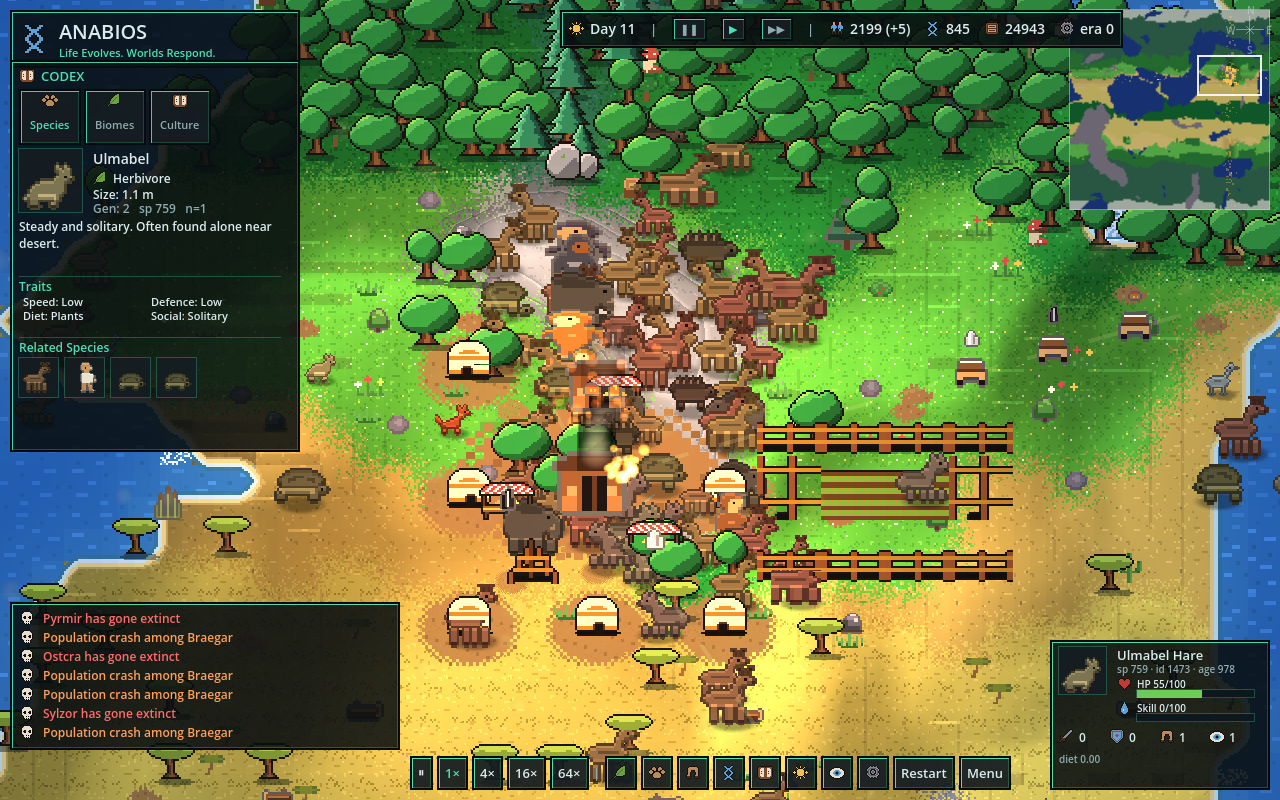
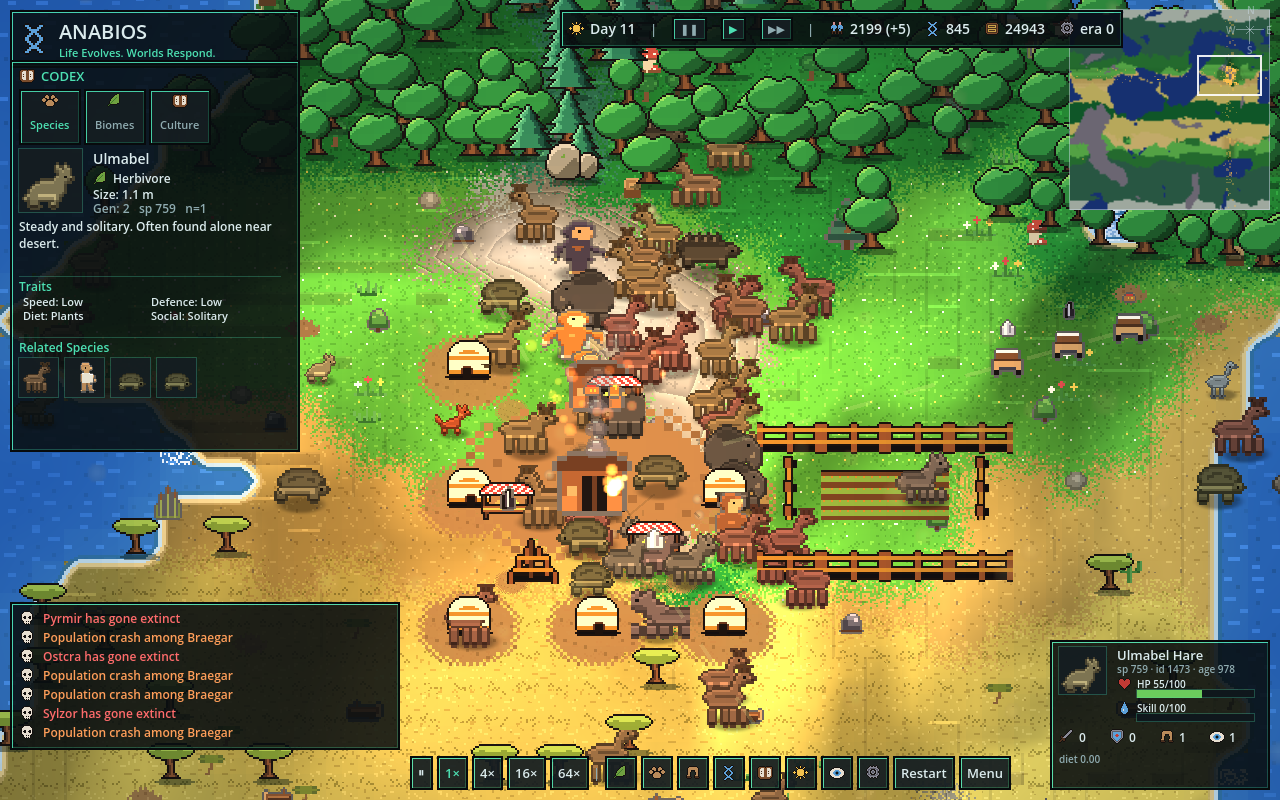
viewer: pixel-puff smoke, earth-coloured trade lanes up close, warm stone
The settlement plume scatters a hard-edged three-lobed puff sprite
(drawn unfiltered) instead of a radial disc that blurred into a grey
fog over the hearth at 4x. From 2x in, trade lanes are drawn as the
trodden earth they are worn into (the footstep-track brown, faint, no
pulse) rather than genome-hued tracers; at far zoom they are unchanged.
The crowd cap draws one figure per 12 world units. Rock tiles, contour
ledges, boulders and crags move from the canon blue-grey to a warm
olive stone: a small outcrop beside the settlement camp read as a
concrete plaza with cracks.

Claude-Session: https://claude.ai/code/session_019kbTtZKC2VJBPY6SALU64h

diff --git a/gallery/README.md b/gallery/README.md
@@ -42,7 +42,7 @@ pins an agent in the unit card.
 
 | File | Scenario / tick / zoom | What you're seeing |
 |---|---|---|
-| scale-settlement-t891-village-4x.png | `settlement` t891 4× (default camera, `ANABIOS_INSPECT=1`) | A camp on packed-earth yards with paths to the hearth, tents spaced a hut-width apart, the crowd capped to one figure per 10 units, a market square with awning stalls beside it, the unit card. |
+| scale-settlement-t891-village-4x.png | `settlement` t891 4× (default camera, `ANABIOS_INSPECT=1`) | A camp on packed-earth yards with paths to the hearth, tents spaced a hut-width apart, the crowd capped to one figure per 12 units, a market square with awning stalls beside it, pixel-puff hearth smoke, the outcrop east of the camp as warm stone, the unit card. |
 | scale-settlement-t891-fortified-2x.png | `settlement` t891 2× (`ANABIOS_VILLAGE_ERA=2 ANABIOS_VILLAGE_FLAGS=123`) | The same camp forced into its fortified era: a log palisade hugging the huts, a gate with banners to the south, a watchtower, fenced fields outside the wall, the forest standing back from the clearing. |
 | scale-settlement-t3120-camp-4x.png | `settlement` t3120 4× | The same camp later: hearth smoke, herds at the square, codex species page. |
 | scale-settlement-t1020-codex-species-2x.png | `settlement` t1020 2× (`ANABIOS_CODEX_TAB=1`) | The settlement peninsula: flat lake water with block ripples, dithered biome borders, mixed oak silhouettes, the pixel-font HUD. |
@@ -50,7 +50,7 @@ pins an agent in the unit card.
 | scale-settlement-t691-overview.png | `settlement` t691, `ANABIOS_CAM_FIT=1` | Whole-world framing: the overview mip with the density dots. |
 | scale-settlement-t891-market-8x.png | `settlement` t891 8× at (1060, 298) | The market square up close: stalls, goods on the counters, carts. |
 | scale-trade-hubs-t600-market-4x.png | `trade-hubs` t600 4× at (1060, 298) | A trade hub as a market square in the woods. |
-| scale-riverlands-t291-relief-2x.png | `riverlands` t291 2× | Rivers with waterfalls on their steep stretches, contour-ledged snowy mountains, forests mixing three oaks, clutter on the grass. |
+| scale-riverlands-t291-relief-2x.png | `riverlands` t291 2× | Rivers with waterfalls on their steep stretches, contour-ledged snowy mountains in warm olive stone, forests mixing three oaks, clutter on the grass. |
 | scale-riverlands-t291-clutter-4x.png | `riverlands` t291 4× at (2500, 1200) | Flowers, tufts, mushrooms and stumps at 4×. |
 | scale-riverlands-t291-lake-4x.png | `riverlands` t291 4× at (2427, 1357) | A desert lake: one flat blue, sparse strokes, foam and beach from the coast autotile. |
 | scale-inventions-t2620-coast-2x.png | `inventions` t2620 2× (`ANABIOS_CODEX_TAB=1`) | Hominin bands along a coast. |
